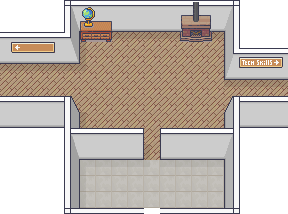
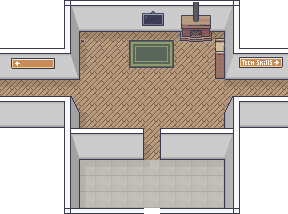
feat: Add new maps and objects

diff --git a/src/configs/maps/professionalExpRoom.ts b/src/configs/maps/professionalExpRoom.ts
@@ -8,7 +8,7 @@ export const professionalExpRoom = {
     gameObjects: {
         miniMe: new Character({
             x: getGridPosition(9),
-            y: getGridPosition(5),
+            y: getGridPosition(6),
             isPlayer: true,
             hasShadow: true,
             width: getGridPosition(1),
@@ -29,41 +29,6 @@ export const professionalExpRoom = {
                     imageHeight: 64
                 }
             }
-        }),
-        npc: new Character({
-            x: getGridPosition(9),
-            y: getGridPosition(2),
-            isPlayer: false,
-            hasShadow: true,
-            width: getGridPosition(1),
-            height: getGridPosition(1),
-            sprite: {
-                object: {
-                    src: '../images/characters/sprite-vasco.png',
-                    width: 16,
-                    height: 32,
-                    imageWidth: 16,
-                    imageHeight: 32
-                },
-                shadow: {
-                    src: '../images/characters/shadow.png',
-                    width: 32,
-                    height: 32,
-                    imageWidth: 64,
-                    imageHeight: 64
-                }
-            },
-            interactions: [
-                {
-                    events: [{type: 'message', text: 'Feel free to walk around the rooms and explore'}]
-                }
-            ],
-            behaviorLoop: [
-                {type: 'idle', direction: 'up', time: 1000},
-                {type: 'idle', direction: 'right', time: 1000},
-                {type: 'idle', direction: 'down', time: 1000},
-                {type: 'idle', direction: 'left', time: 1000},
-            ]
         }),
         mirror: new GameObject({
             x: getGridPosition(7),
@@ -105,6 +70,48 @@ export const professionalExpRoom = {
                 far:  '../images/objects/interaction.png'
             }
         }),
+        // shelf: new GameObject({
+        //     x: getGridPosition(9),
+        //     y: getGridPosition(0),
+        //     hasShadow: false,
+        //     width: getGridPosition(2),
+        //     height: getGridPosition(2),
+        //     sprite: {
+        //         object: {
+        //             src: '../images/objects/shelf.png',
+        //             width: getGridPosition(3),
+        //             height: getGridPosition(3),
+        //         },
+        //     },
+        // }),
+        table: new GameObject({
+            x: getGridPosition(5),
+            y: getGridPosition(1),
+            hasShadow: false,
+            width: getGridPosition(2),
+            height: getGridPosition(1),
+            sprite: {
+                object: {
+                    src: '../images/objects/table.png',
+                    width: getGridPosition(2),
+                    height: getGridPosition(2),
+                },
+            },
+        }),
+        couch: new GameObject({
+            x: getGridPosition(8),
+            y: getGridPosition(4),
+            hasShadow: false,
+            width: getGridPosition(3),
+            height: getGridPosition(1),
+            sprite: {
+                object: {
+                    src: '../images/objects/couch.png',
+                    width: getGridPosition(3),
+                    height: getGridPosition(2),
+                },
+            },
+        })
     },
     actionSpaces: {
         // [getGridCoord(8,1)] : [

diff --git a/src/configs/maps/hobbies.ts b/src/configs/maps/hobbies.ts
@@ -3,11 +3,11 @@ import GameObject from '../../modules/GameObject';
 import { getGridPosition, getGridCoord } from '../../utils/grid';
 
 export const hobbies = {
-    lowerImageSrc: "../images/backgrounds/darkroom.png",
+    lowerImageSrc: "../images/backgrounds/room.png",
     gameObjects: {
         miniMe: new Character({
-            x: getGridPosition(0),
-            y: getGridPosition(7),
+            x: getGridPosition(11),
+            y: getGridPosition(4),
             isPlayer: true,
             hasShadow: true,
             width: getGridPosition(1),
@@ -55,15 +55,14 @@ export const hobbies = {
         })
     },
     initialInteractions: [
-        { who: 'miniMe', type: 'walk', direction: 'right' },
+        { who: 'miniMe', type: 'walk', direction: 'left' },
         { type: 'message', text: 'This is the hobbies room!!'},
         { type: 'message', text: "There's something wrong with light in this room. I remember there was a switch "},
-        { who: 'miniMe', type: 'walk', direction: 'left' },
-        
+        { who: 'miniMe', type: 'walk', direction: 'right' },
     ],
     walls: {},
     actionSpaces: {
-        [getGridCoord(0,7)]: [
+        [getGridCoord(11,4)]: [
             {
                 events: [
                     { type: 'changeMap', map: 'professionalExpRoom'},

diff --git a/src/configs/maps/farfetch.ts b/src/configs/maps/farfetch.ts
@@ -2,7 +2,7 @@ import Character from '../../modules/Character';
 import { getGridPosition, getGridCoord, createLinearWall } from '../../utils/grid';
 
 export const farfetch = {
-    lowerImageSrc: "../images/backgrounds/hobbies.png",
+    lowerImageSrc: "../images/backgrounds/work.png",
     gameObjects: {
         miniMe: new Character({
             x: getGridPosition(6),
